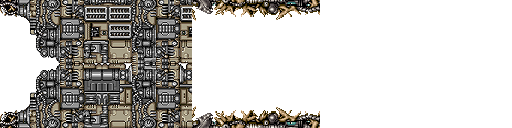
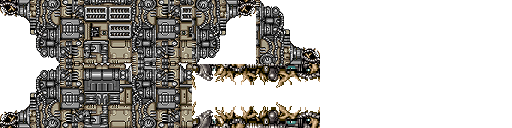
mapa completo

Changed region(s): [[0.375, 0.0, 0.625, 0.6875], [0.375, 0.8125, 0.625, 1.0]]

diff --git a/vj2D/cBicho.cpp b/vj2D/cBicho.cpp
@@ -148,16 +148,16 @@ void cBicho::MoveLeft(int *map)
 		if(CollidesMapWall(map,false))
 		{
 			x = xaux;
-			state = STATE_LOOKLEFT;
+			state = STATE_CENTER;
 		}
 	}
 	//Advance, no problem
 	else
 	{
 		x -= STEP_LENGTH;
-		if(state != STATE_WALKLEFT)
+		if(state != STATE_CENTER)
 		{
-			state = STATE_WALKLEFT;
+			state = STATE_CENTER;
 			seq = 0;
 			delay = 0;
 		}
@@ -176,7 +176,7 @@ void cBicho::MoveRight(int *map)
 		if(CollidesMapWall(map,true))
 		{
 			x = xaux;
-			state = STATE_LOOKRIGHT;
+			state = STATE_CENTER;
 		}
 	}
 	//Advance, no problem
@@ -184,9 +184,9 @@ void cBicho::MoveRight(int *map)
 	{
 		x += STEP_LENGTH;
 
-		if(state != STATE_WALKRIGHT)
+		if(state != STATE_CENTER)
 		{
-			state = STATE_WALKRIGHT;
+			state = STATE_CENTER;
 			seq = 0;
 			delay = 0;
 		}
@@ -196,8 +196,9 @@ void cBicho::Stop()
 {
 	switch(state)
 	{
-		case STATE_WALKLEFT:	state = STATE_LOOKLEFT;		break;
-		case STATE_WALKRIGHT:	state = STATE_LOOKRIGHT;	break;
+		case STATE_CENTER:	state = STATE_CENTER;		break; //xk si queremos que tire fuego, aqui djara de tirarlo
+		default:	state = STATE_CENTER;	break; //aqui en realidad no tendria k ir al centro directamente, tendria k haber
+			//una transicion
 	}
 }
 void cBicho::Jump(int *map)
@@ -209,6 +210,8 @@ void cBicho::Jump(int *map)
 			jumping = true;
 			jump_alfa = 0;
 			jump_y = y;
+
+			state = STATE_UP_FAST; //tendria que haber transicion
 		}
 	}
 }

diff --git a/vj2D/cScene.cpp b/vj2D/cScene.cpp
@@ -48,9 +48,10 @@ bool cScene::LoadLevel(int level)
 					{
 						//Tiles = 1,2,3,...
 						map[(j*SCENE_WIDTH)+i] = tile;
-						coordy_tile = tile < tilesFila ? 0.0f : 0.5f;
+						//coordy_tile = tile < tilesFila ? 0.0f : 0.5f;
+						coordy_tile = (tile - 1) / tilesFila * 0.25f;
 						
-						coordx_tile = ((tile-1) % (tilesFila)) * 0.125f;
+						coordx_tile = ((tile-1) % (tilesFila)) * (float)(1.0f / (float)tilesFila);
 
 						/*if (tile == 1) {
 							coordx_tile = 0.0f;
@@ -70,9 +71,9 @@ bool cScene::LoadLevel(int level)
 
 						//BLOCK_SIZE = 24, FILE_SIZE = 64
 						// 24 / 64 = 0.375
-						glTexCoord2f(coordx_tile       ,coordy_tile+0.5f);	glVertex2i(px           ,py           );
-						glTexCoord2f(coordx_tile+0.125f,coordy_tile+0.5f);	glVertex2i(px+BLOCK_SIZE,py           );
-						glTexCoord2f(coordx_tile+0.125f,coordy_tile       );	glVertex2i(px+BLOCK_SIZE,py+BLOCK_SIZE);
+						glTexCoord2f(coordx_tile       ,coordy_tile+0.25f);	glVertex2i(px           ,py           );
+						glTexCoord2f(coordx_tile+ (1.0f/(float)tilesFila),coordy_tile+0.25f);	glVertex2i(px+BLOCK_SIZE,py           );
+						glTexCoord2f(coordx_tile+ (1.0f / (float)tilesFila),coordy_tile       );	glVertex2i(px+BLOCK_SIZE,py+BLOCK_SIZE);
 						glTexCoord2f(coordx_tile       ,coordy_tile       );	glVertex2i(px           ,py+BLOCK_SIZE);
 					}
 					px+=TILE_SIZE;

diff --git a/vj2D/cPlayer.cpp b/vj2D/cPlayer.cpp
@@ -7,27 +7,28 @@ cPlayer::~cPlayer(){}
 void cPlayer::Draw(int tex_id)
 {	
 	float xo,yo,xf,yf;
-
-	switch(GetState())
+	xo = 0.125 * GetState();
+	yo = 1.f;
+	/*switch(GetState())
 	{
 		//1
-		case STATE_LOOKLEFT:	xo = 0.0f;	yo = 0.25f;
+		case STATE_CENTER:		xo = 0.0f;	yo = 1.f; //SI METEMOS ANIMACION A LA NAVE, LA PONEMOS DEBAJO Y CAMBIAMOS EL 1
 								break;
 		//4
-		case STATE_LOOKRIGHT:	xo = 0.25f;	yo = 0.25f;
+		case STATE_LOOKRIGHT:	xo = 0.25f;	yo = 1.f;
 								break;
 		//1..3
-		case STATE_WALKLEFT:	xo = 0.0f;	yo = 0.25f + (GetFrame()*0.25f);
-								NextFrame(3);
+		case STATE_WALKLEFT:	xo = 0.0f;	yo = 1.f; // PARA ANIMACION: + (GetFrame()*0.25f);
+								//NextFrame(3);
 								break;
 		//4..6
-		case STATE_WALKRIGHT:	xo = 0.25f; yo = 0.25f + (GetFrame()*0.25f);
-								NextFrame(3);
+		case STATE_WALKRIGHT:	xo = 0.25f; yo = 1.f;// +(GetFrame()*0.25f);
+								//NextFrame(3);
 								break;
-	}
+	}*/
 	//coord textur: xo,yo
-	xf = xo + 0.25f;
-	yf = yo - 0.25f;
+	xf = xo + 0.125f;//1/8 da el 0.125
+	yf = yo - 1.f; //xk la nave ocupa toda la altura d la textura
 
 	DrawRect(tex_id,xo,yo,xf,yf);
 }

diff --git a/vj2D/cGame.cpp b/vj2D/cGame.cpp
@@ -34,18 +34,18 @@ bool cGame::Init()
 	if (!res) return false;
 
 
-	Scene.tilesFila = 8; //porque el texture mide 512 y caben 8 tiles de 64
-	res = Scene.LoadLevel(6);
+	Scene.tilesFila = 16; //porque el texture mide 512 y caben 16 tiles de 32
+	res = Scene.LoadLevel(10);
 	if(!res) return false;
 
 	Scene.BACK_HEIGHT = 512;
 	Scene.BACK_WIDTH_DRAW = 2560; //tamano en horizontal dl background
 	//Player initialization
-	res = Data.LoadImage(IMG_PLAYER,"bub.png",GL_RGBA);
+	res = Data.LoadImage(IMG_PLAYER,"naves.png",GL_RGBA);
 	if(!res) return false;
-	Player.SetWidthHeight(32,32);
-	Player.SetTile(4,1);
-	Player.SetState(STATE_LOOKRIGHT);
+	Player.SetWidthHeight(64,32);
+	Player.SetTile(1,8);
+	Player.SetState(STATE_CENTER);
 
 	return res;
 }
@@ -92,6 +92,7 @@ bool cGame::Process()
 	if(keys[27])	res=false;
 	
 	if(keys[GLUT_KEY_UP])			Player.Jump(Scene.GetMap());
+	else if (keys[GLUT_KEY_DOWN])	Player.Jump(Scene.GetMap());
 	if(keys[GLUT_KEY_LEFT])			Player.MoveLeft(Scene.GetMap());
 	else if(keys[GLUT_KEY_RIGHT])	Player.MoveRight(Scene.GetMap());
 	else Player.Stop();

diff --git a/vj2D/cScene.h b/vj2D/cScene.h
@@ -4,14 +4,14 @@
 
 #define SCENE_Xo		0//(2*TILE_SIZE)
 #define SCENE_Yo		0//TILE_SIZE
-#define SCENE_WIDTH		10 //640 width / 64 tamano 
-#define SCENE_HEIGHT	8
+#define SCENE_WIDTH		80 //640 width / 64 tamano //TODO ACTUALIZAR SIZE
+#define SCENE_HEIGHT	16
 
 #define FILENAME		"level"
 #define FILENAME_EXT	".txt"
 
-#define TILE_SIZE		64
-#define BLOCK_SIZE		64
+#define TILE_SIZE		32 
+#define BLOCK_SIZE		32
 
 class cScene
 {
@@ -29,4 +29,5 @@ public:
 private:
 	int map[SCENE_WIDTH * SCENE_HEIGHT];	//scene
 	int id_DL;								//actual level display list
+	//int SCENE_WIDTH;
 };

diff --git a/vj2D/cBicho.h b/vj2D/cBicho.h
@@ -8,10 +8,16 @@
 #define JUMP_HEIGHT		96
 #define JUMP_STEP		4
 
-#define STATE_LOOKLEFT		0
+/*#define STATE_LOOKLEFT		0
 #define STATE_LOOKRIGHT		1
 #define STATE_WALKLEFT		2
-#define STATE_WALKRIGHT		3
+#define STATE_WALKRIGHT		3*/
+
+#define STATE_DOWN_SLOW		0
+#define STATE_DOWN_FAST		1
+#define STATE_UP_SLOW		2
+#define STATE_UP_FAST		3
+#define STATE_CENTER		4
 
 class cRect
 {

diff --git a/vj2D/Globals.h b/vj2D/Globals.h
@@ -4,4 +4,3 @@
 #include <stdio.h>
 #include <math.h>
 #include <glut.h>
-#include <iostream>
